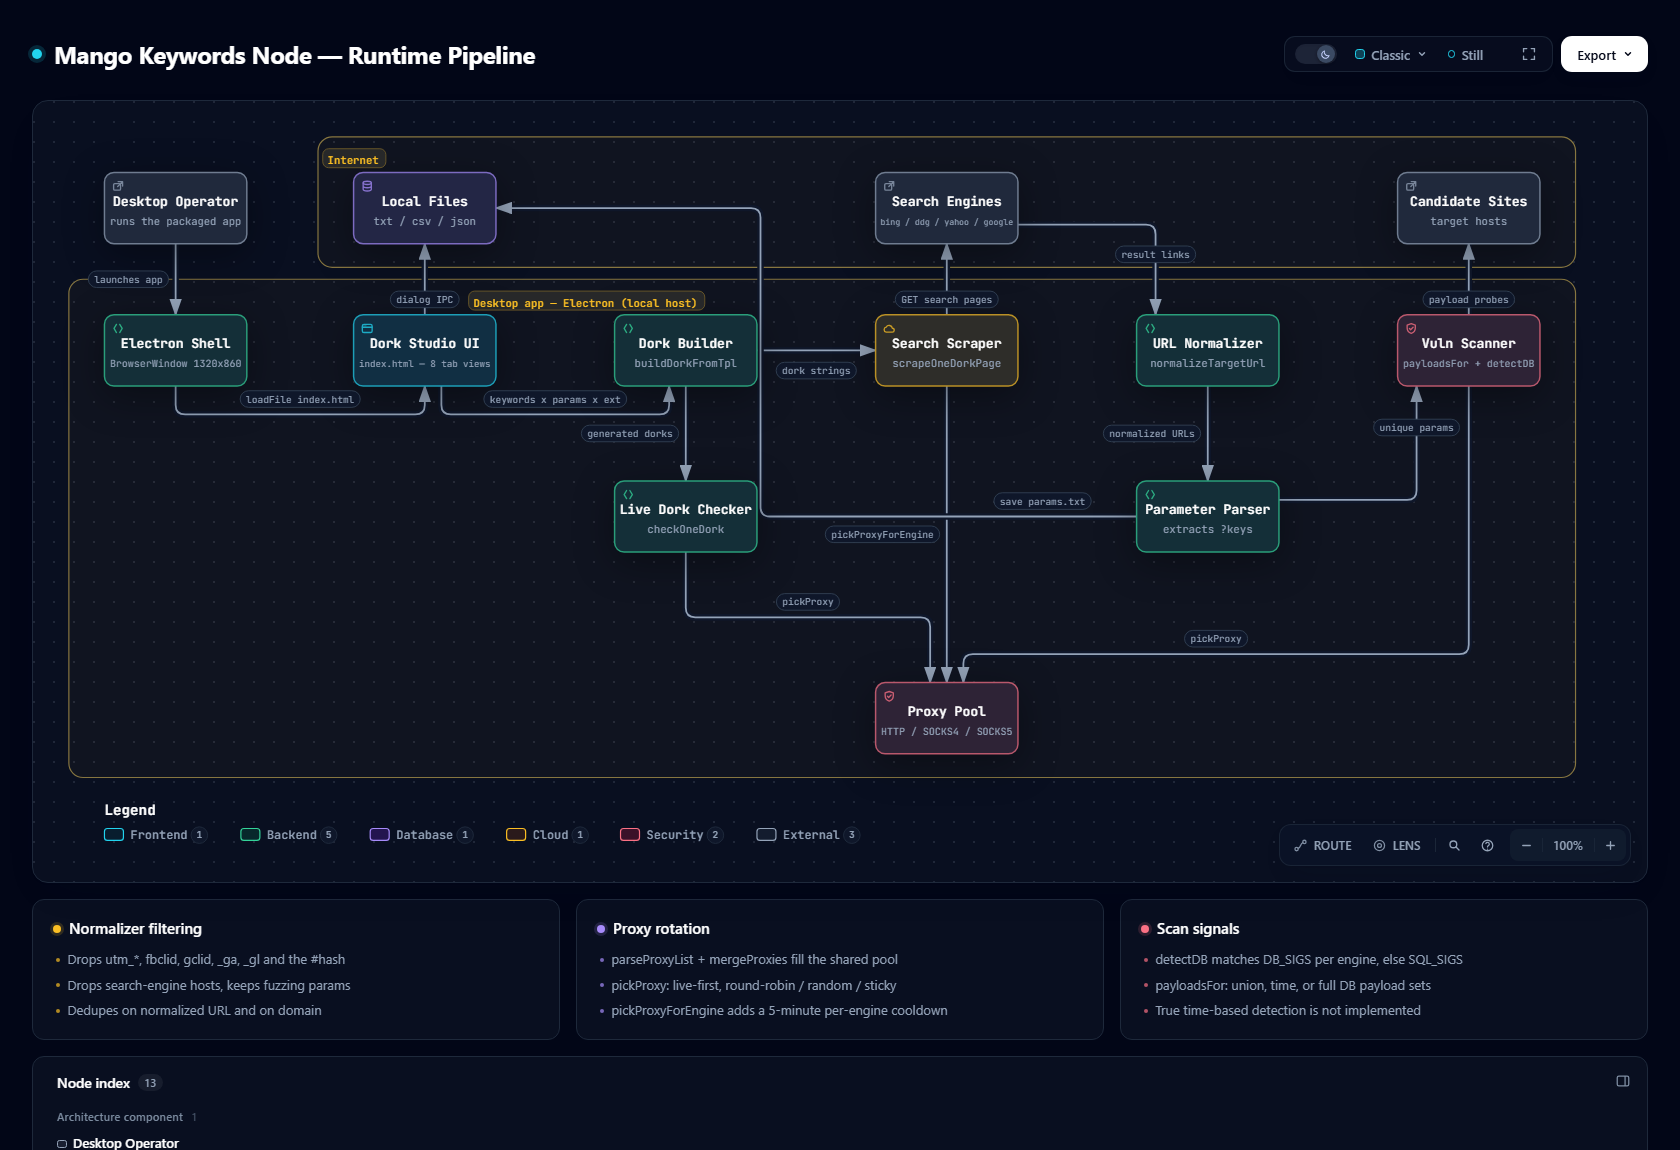
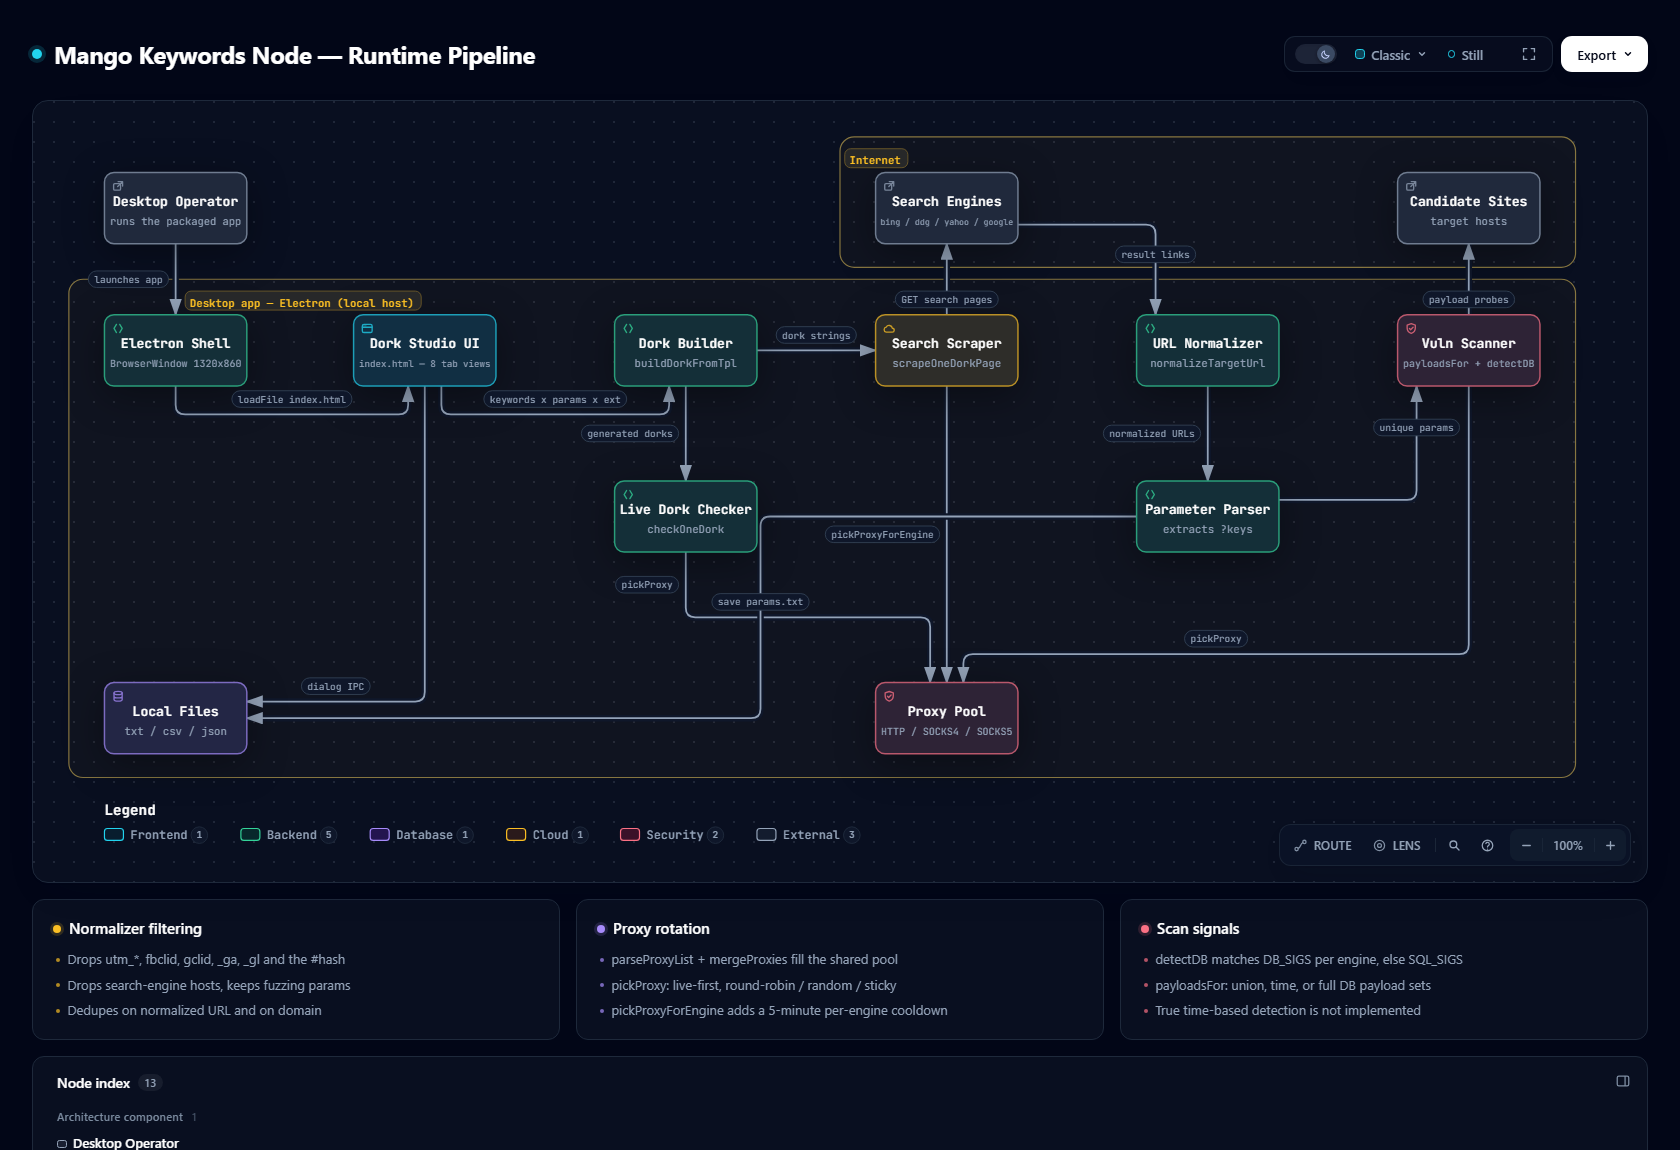
docs: correct Local Files region in diagram (Electron main-process I/O) and record known gaps

diff --git a/docs/diagrams/mango-keywords-pipeline.html b/docs/diagrams/mango-keywords-pipeline.html
@@ -5252,7 +5252,7 @@ OTHER DEALINGS IN THE FONT SOFTWARE.
         <!-- Boundaries (behind everything) -->
         <rect data-graph-role="structural-frame" data-composition-frame-kind="region" data-composition-frame-id="0" data-composition-frame-label="Desktop app — Electron (local host)" x="10" y="130" width="1270" height="420" rx="12" class="c-region" stroke-width="1"/>
 
-        <rect data-graph-role="structural-frame" data-composition-frame-kind="region" data-composition-frame-id="1" data-composition-frame-label="Internet" x="220" y="10" width="1060" height="110" rx="12" class="c-region" stroke-width="1"/>
+        <rect data-graph-role="structural-frame" data-composition-frame-kind="region" data-composition-frame-id="1" data-composition-frame-label="Internet" x="660" y="10" width="620" height="110" rx="12" class="c-region" stroke-width="1"/>
 
         <!-- Connection paths (before components for correct z-order) -->
         <g data-graph-role="automatic-crossover" style="--step:0">
@@ -5260,8 +5260,8 @@ OTHER DEALINGS IN THE FONT SOFTWARE.
           <path data-edge-from="operator" data-edge-to="electron-shell" data-edge-label="launches app" data-edge-key="0" data-edge-id="op-1" data-composition-points="100,100;100,160" data-composition-crossover="halo" data-composition-independent="true" d="M 100 100 L 100 160" class="a-default" data-animate="edge" style="--step:0" stroke-width="1.5" marker-end="url(#arrowhead)"/>
         </g>
         <g data-graph-role="automatic-crossover" style="--step:1">
-          <path data-graph-role="automatic-crossover-underlay" d="M 100 220 L 100 236 Q 100 244 108 244 L 302 244 Q 310 244 310 236 L 310 220" fill="none" stroke="var(--mask)" stroke-width="5.5" stroke-linecap="round" stroke-linejoin="round" pointer-events="none"/>
-          <path data-edge-from="electron-shell" data-edge-to="dork-studio" data-edge-label="loadFile index.html" data-edge-key="1" data-edge-id="op-2" data-composition-points="100,220;100,244;310,244;310,220" data-composition-crossover="halo" data-composition-independent="true" d="M 100 220 L 100 236 Q 100 244 108 244 L 302 244 Q 310 244 310 236 L 310 220" class="a-default" data-animate="edge" style="--step:1" stroke-width="1.5" marker-end="url(#arrowhead)"/>
+          <path data-graph-role="automatic-crossover-underlay" d="M 100 220 L 100 236 Q 100 244 108 244 L 288 244 Q 296 244 296 236 L 296 220" fill="none" stroke="var(--mask)" stroke-width="5.5" stroke-linecap="round" stroke-linejoin="round" pointer-events="none"/>
+          <path data-edge-from="electron-shell" data-edge-to="dork-studio" data-edge-label="loadFile index.html" data-edge-key="1" data-edge-id="op-2" data-composition-points="100,220;100,244;296,244;296,220" data-composition-crossover="halo" data-composition-independent="true" d="M 100 220 L 100 236 Q 100 244 108 244 L 288 244 Q 296 244 296 236 L 296 220" class="a-default" data-animate="edge" style="--step:1" stroke-width="1.5" marker-end="url(#arrowhead)"/>
         </g>
         <g data-graph-role="automatic-crossover" style="--step:2">
           <path data-graph-role="automatic-crossover-underlay" d="M 324 220 L 324 236 Q 324 244 332 244 L 508 244 Q 516 244 516 236 L 516 220" fill="none" stroke="var(--mask)" stroke-width="5.5" stroke-linecap="round" stroke-linejoin="round" pointer-events="none"/>
@@ -5308,12 +5308,12 @@ OTHER DEALINGS IN THE FONT SOFTWARE.
           <path data-edge-from="vuln-scanner" data-edge-to="proxy-pool" data-edge-label="pickProxy" data-edge-key="12" data-edge-id="br-4" data-composition-points="1190,220;1190,446;764,446;764,470" data-composition-crossover="halo" data-composition-independent="true" d="M 1190 220 L 1190 438 Q 1190 446 1182 446 L 772 446 Q 764 446 764 454 L 764 470" class="a-default" data-animate="edge" style="--step:12" stroke-width="1.5" marker-end="url(#arrowhead)"/>
         </g>
         <g data-graph-role="automatic-crossover" style="--step:13">
-          <path data-graph-role="automatic-crossover-underlay" d="M 310 160 L 310 100" fill="none" stroke="var(--mask)" stroke-width="5.5" stroke-linecap="round" stroke-linejoin="round" pointer-events="none"/>
-          <path data-edge-from="dork-studio" data-edge-to="disk-store" data-edge-label="dialog IPC" data-edge-key="13" data-edge-id="br-5" data-composition-points="310,160;310,100" data-composition-crossover="halo" data-composition-independent="true" d="M 310 160 L 310 100" class="a-default" data-animate="edge" style="--step:12" stroke-width="1.5" marker-end="url(#arrowhead)"/>
+          <path data-graph-role="automatic-crossover-underlay" d="M 310 220 L 310 478 Q 310 486 302 486 L 160 486" fill="none" stroke="var(--mask)" stroke-width="5.5" stroke-linecap="round" stroke-linejoin="round" pointer-events="none"/>
+          <path data-edge-from="dork-studio" data-edge-to="disk-store" data-edge-label="dialog IPC" data-edge-key="13" data-edge-id="br-5" data-composition-points="310,220;310,486;160,486" data-composition-crossover="halo" data-composition-independent="true" d="M 310 220 L 310 478 Q 310 486 302 486 L 160 486" class="a-default" data-animate="edge" style="--step:12" stroke-width="1.5" marker-end="url(#arrowhead)"/>
         </g>
         <g data-graph-role="automatic-crossover" style="--step:14">
-          <path data-graph-role="automatic-crossover-underlay" d="M 910 330 L 601 330 Q 593 330 593 322 L 593 78 Q 593 70 585 70 L 370 70" fill="none" stroke="var(--mask)" stroke-width="5.5" stroke-linecap="round" stroke-linejoin="round" pointer-events="none"/>
-          <path data-edge-from="parameter-parser" data-edge-to="disk-store" data-edge-label="save params.txt" data-edge-key="14" data-edge-id="br-6" data-composition-points="910,330;593,330;593,70;370,70" data-composition-crossover="halo" data-composition-independent="true" d="M 910 330 L 601 330 Q 593 330 593 322 L 593 78 Q 593 70 585 70 L 370 70" class="a-default" data-animate="edge" style="--step:12" stroke-width="1.5" marker-end="url(#arrowhead)"/>
+          <path data-graph-role="automatic-crossover-underlay" d="M 910 330 L 601 330 Q 593 330 593 338 L 593 492 Q 593 500 585 500 L 160 500" fill="none" stroke="var(--mask)" stroke-width="5.5" stroke-linecap="round" stroke-linejoin="round" pointer-events="none"/>
+          <path data-edge-from="parameter-parser" data-edge-to="disk-store" data-edge-label="save params.txt" data-edge-key="14" data-edge-id="br-6" data-composition-points="910,330;593,330;593,500;160,500" data-composition-crossover="halo" data-composition-independent="true" d="M 910 330 L 601 330 Q 593 330 593 338 L 593 492 Q 593 500 585 500 L 160 500" class="a-default" data-animate="edge" style="--step:12" stroke-width="1.5" marker-end="url(#arrowhead)"/>
         </g>
 
         <!-- Components -->
@@ -5340,16 +5340,16 @@ OTHER DEALINGS IN THE FONT SOFTWARE.
         <text data-detail="context" x="100" y="204" class="t-muted" font-size="8.4" text-anchor="middle">BrowserWindow 1320x860</text>
         </g>
 
-        <g id="node-disk-store" data-node-id="disk-store" data-node-label="Local Files" tabindex="0" role="button" aria-label="Focus Local Files, txt / csv / json, Internet" aria-pressed="false" data-node-kind="database" data-node-sublabel="txt / csv / json" data-node-context="Internet">
-          <title>Local Files · txt / csv / json · Internet</title>
-          <rect x="250" y="40" width="120" height="60" rx="8" class="c-mask"/>
-          <rect x="250" y="40" width="120" height="60" rx="8" class="c-database" data-animate="node" style="--step:12" stroke-width="1.5"/>
-          <g aria-hidden="true" data-semantic-sigil="database" class="semantic-sigil s-database" transform="translate(256 46) scale(0.6875)">
+        <g id="node-disk-store" data-node-id="disk-store" data-node-label="Local Files" tabindex="0" role="button" aria-label="Focus Local Files, txt / csv / json, Desktop app — Electron (local host)" aria-pressed="false" data-node-kind="database" data-node-sublabel="txt / csv / json" data-node-context="Desktop app — Electron (local host)">
+          <title>Local Files · txt / csv / json · Desktop app — Electron (local host)</title>
+          <rect x="40" y="470" width="120" height="60" rx="8" class="c-mask"/>
+          <rect x="40" y="470" width="120" height="60" rx="8" class="c-database" data-animate="node" style="--step:12" stroke-width="1.5"/>
+          <g aria-hidden="true" data-semantic-sigil="database" class="semantic-sigil s-database" transform="translate(46 476) scale(0.6875)">
             <ellipse cx="8" cy="4" rx="5" ry="2"/>
             <path d="M3 4v8c0 1.1 2.2 2 5 2s5-.9 5-2V4M3 8c0 1.1 2.2 2 5 2s5-.9 5-2"/>
           </g>
-          <text data-node-label="" data-detail-anchor="" x="310" y="68" class="t-primary" font-size="11" font-weight="600" text-anchor="middle">Local Files</text>
-        <text data-detail="context" x="310" y="84" class="t-muted" font-size="9" text-anchor="middle">txt / csv / json</text>
+          <text data-node-label="" data-detail-anchor="" x="100" y="498" class="t-primary" font-size="11" font-weight="600" text-anchor="middle">Local Files</text>
+        <text data-detail="context" x="100" y="514" class="t-muted" font-size="9" text-anchor="middle">txt / csv / json</text>
         </g>
 
         <g id="node-dork-studio" data-node-id="dork-studio" data-node-label="Dork Studio UI" tabindex="0" role="button" aria-label="Focus Dork Studio UI, index.html — 8 tab views, Desktop app — Electron (local host)" aria-pressed="false" data-node-kind="frontend" data-node-sublabel="index.html — 8 tab views" data-node-context="Desktop app — Electron (local host)">
@@ -5475,16 +5475,16 @@ OTHER DEALINGS IN THE FONT SOFTWARE.
           <text x="60.2" y="133" class="t-edge-default" font-size="8" text-anchor="middle">launches app</text>
         </g>
         <g data-detail="context" data-edge-from="electron-shell" data-edge-to="dork-studio" data-edge-label="loadFile index.html" data-edge-key="1" data-edge-id="op-2">
-          <rect x="154.4" y="224" width="101.2" height="14" rx="3" class="c-mask"/>
-          <text x="205" y="234" class="t-edge-default" font-size="8" text-anchor="middle">loadFile index.html</text>
+          <rect x="147.4" y="224" width="101.2" height="14" rx="3" class="c-mask"/>
+          <text x="198" y="234" class="t-edge-default" font-size="8" text-anchor="middle">loadFile index.html</text>
         </g>
         <g data-detail="context" data-edge-from="dork-studio" data-edge-to="dork-builder" data-edge-label="keywords x params x ext" data-edge-key="2" data-edge-id="op-3">
           <rect x="359.8" y="224" width="120.39999999999999" height="14" rx="3" class="c-mask"/>
           <text x="420" y="234" class="t-edge-default" font-size="8" text-anchor="middle">keywords x params x ext</text>
         </g>
         <g data-detail="context" data-edge-from="dork-builder" data-edge-to="search-scraper" data-edge-label="dork strings" data-edge-key="3" data-edge-id="op-4">
-          <rect x="606.2" y="200" width="67.6" height="14" rx="3" class="c-mask"/>
-          <text x="640" y="210" class="t-edge-default" font-size="8" text-anchor="middle">dork strings</text>
+          <rect x="606.2" y="170" width="67.6" height="14" rx="3" class="c-mask"/>
+          <text x="640" y="180" class="t-edge-default" font-size="8" text-anchor="middle">dork strings</text>
         </g>
         <g data-detail="context" data-edge-from="search-scraper" data-edge-to="search-engines" data-edge-label="GET search pages" data-edge-key="4" data-edge-id="op-5">
           <rect x="706.6" y="140" width="86.8" height="14" rx="3" class="c-mask"/>
@@ -5511,8 +5511,8 @@ OTHER DEALINGS IN THE FONT SOFTWARE.
           <text x="483" y="263" class="t-edge-default" font-size="8" text-anchor="middle">generated dorks</text>
         </g>
         <g data-detail="context" data-edge-from="dork-checker" data-edge-to="proxy-pool" data-edge-label="pickProxy" data-edge-key="10" data-edge-id="br-2">
-          <rect x="606.4" y="395" width="53.199999999999996" height="14" rx="3" class="c-mask"/>
-          <text x="633" y="405" class="t-edge-default" font-size="8" text-anchor="middle">pickProxy</text>
+          <rect x="470.79999999999995" y="380.5" width="53.199999999999996" height="14" rx="3" class="c-mask"/>
+          <text x="497.4" y="390.5" class="t-edge-default" font-size="8" text-anchor="middle">pickProxy</text>
         </g>
         <g data-detail="context" data-edge-from="search-scraper" data-edge-to="proxy-pool" data-edge-label="pickProxyForEngine" data-edge-key="11" data-edge-id="br-3">
           <rect x="647.5999999999999" y="338" width="96.39999999999999" height="14" rx="3" class="c-mask"/>
@@ -5523,23 +5523,23 @@ OTHER DEALINGS IN THE FONT SOFTWARE.
           <text x="977" y="436" class="t-edge-default" font-size="8" text-anchor="middle">pickProxy</text>
         </g>
         <g data-detail="context" data-edge-from="dork-studio" data-edge-to="disk-store" data-edge-label="dialog IPC" data-edge-key="13" data-edge-id="br-5">
-          <rect x="281" y="140" width="58" height="14" rx="3" class="c-mask"/>
-          <text x="310" y="150" class="t-edge-default" font-size="8" text-anchor="middle">dialog IPC</text>
+          <rect x="206" y="466" width="58" height="14" rx="3" class="c-mask"/>
+          <text x="235" y="476" class="t-edge-default" font-size="8" text-anchor="middle">dialog IPC</text>
         </g>
         <g data-detail="context" data-edge-from="parameter-parser" data-edge-to="disk-store" data-edge-label="save params.txt" data-edge-key="14" data-edge-id="br-6">
-          <rect x="789.75" y="310" width="82" height="14" rx="3" class="c-mask"/>
-          <text x="830.75" y="320" class="t-edge-default" font-size="8" text-anchor="middle">save params.txt</text>
+          <rect x="552" y="395" width="82" height="14" rx="3" class="c-mask"/>
+          <text x="593" y="405" class="t-edge-default" font-size="8" text-anchor="middle">save params.txt</text>
         </g>
 
         <!-- Boundary labels (foreground masks keep routes out of titles) -->
         <g data-graph-role="structural-frame-label" data-composition-frame-id="0" data-composition-frame-kind="region" data-composition-frame-label="Desktop app — Electron (local host)">
-          <rect data-graph-role="structural-frame-label-mask" x="347" y="140" width="199" height="16" rx="3" class="c-mask"/>
-          <text data-boundary-label="" x="351" y="153" class="t-cloud" font-size="9" font-weight="600">Desktop app — Electron (local host)</text>
+          <rect data-graph-role="structural-frame-label-mask" x="108" y="140" width="199" height="16" rx="3" class="c-mask"/>
+          <text data-boundary-label="" x="112" y="153" class="t-cloud" font-size="9" font-weight="600">Desktop app — Electron (local host)</text>
         </g>
 
         <g data-graph-role="structural-frame-label" data-composition-frame-id="1" data-composition-frame-kind="region" data-composition-frame-label="Internet">
-          <rect data-graph-role="structural-frame-label-mask" x="224" y="20" width="53.199999999999996" height="16" rx="3" class="c-mask"/>
-          <text data-boundary-label="" x="228" y="33" class="t-cloud" font-size="9" font-weight="600">Internet</text>
+          <rect data-graph-role="structural-frame-label-mask" x="664" y="20" width="53.199999999999996" height="16" rx="3" class="c-mask"/>
+          <text data-boundary-label="" x="668" y="33" class="t-cloud" font-size="9" font-weight="600">Internet</text>
         </g>
 
         <!-- Legend -->

diff --git a/README.md b/README.md
@@ -45,6 +45,24 @@ import and export.
 
 **Boundaries.** Everything except the four search engines and the candidate target sites runs inside
 the local Electron process. Outbound HTTP(S)/SOCKS traffic is the only thing that crosses it.
+Local file reads and writes happen in the Electron **main** process (`main.js`), not in the renderer.
+
+### Known gaps in the diagram
+
+Two behaviours are deliberately *not* drawn as working flows, because the source does not support
+them as working flows:
+
+- **`time-based` SQLi payloads are not actually timed.** The payload set exists and is selectable,
+  but the scanner explicitly does not measure response delay, so no time-based injection is ever
+  confirmed. The diagram marks this rather than drawing a detection path that does not run.
+- **Proxy liveness is asserted by the UI, not proven by it.** The pool, rotation and cooldown logic
+  are real and sourced; the "live" badge's result handling has no body, so the diagram presents the
+  pool and its leases without claiming a verified liveness check.
+
+The committed diagram also carries two crossing relationship lines (both involving the
+`Parameter Parser → Local Files` export edge). They are a known cosmetic imperfection, not a
+correctness problem: every component, relationship, source citation and boundary is accurate, and
+the automated gates pass.
 
 ---
 
